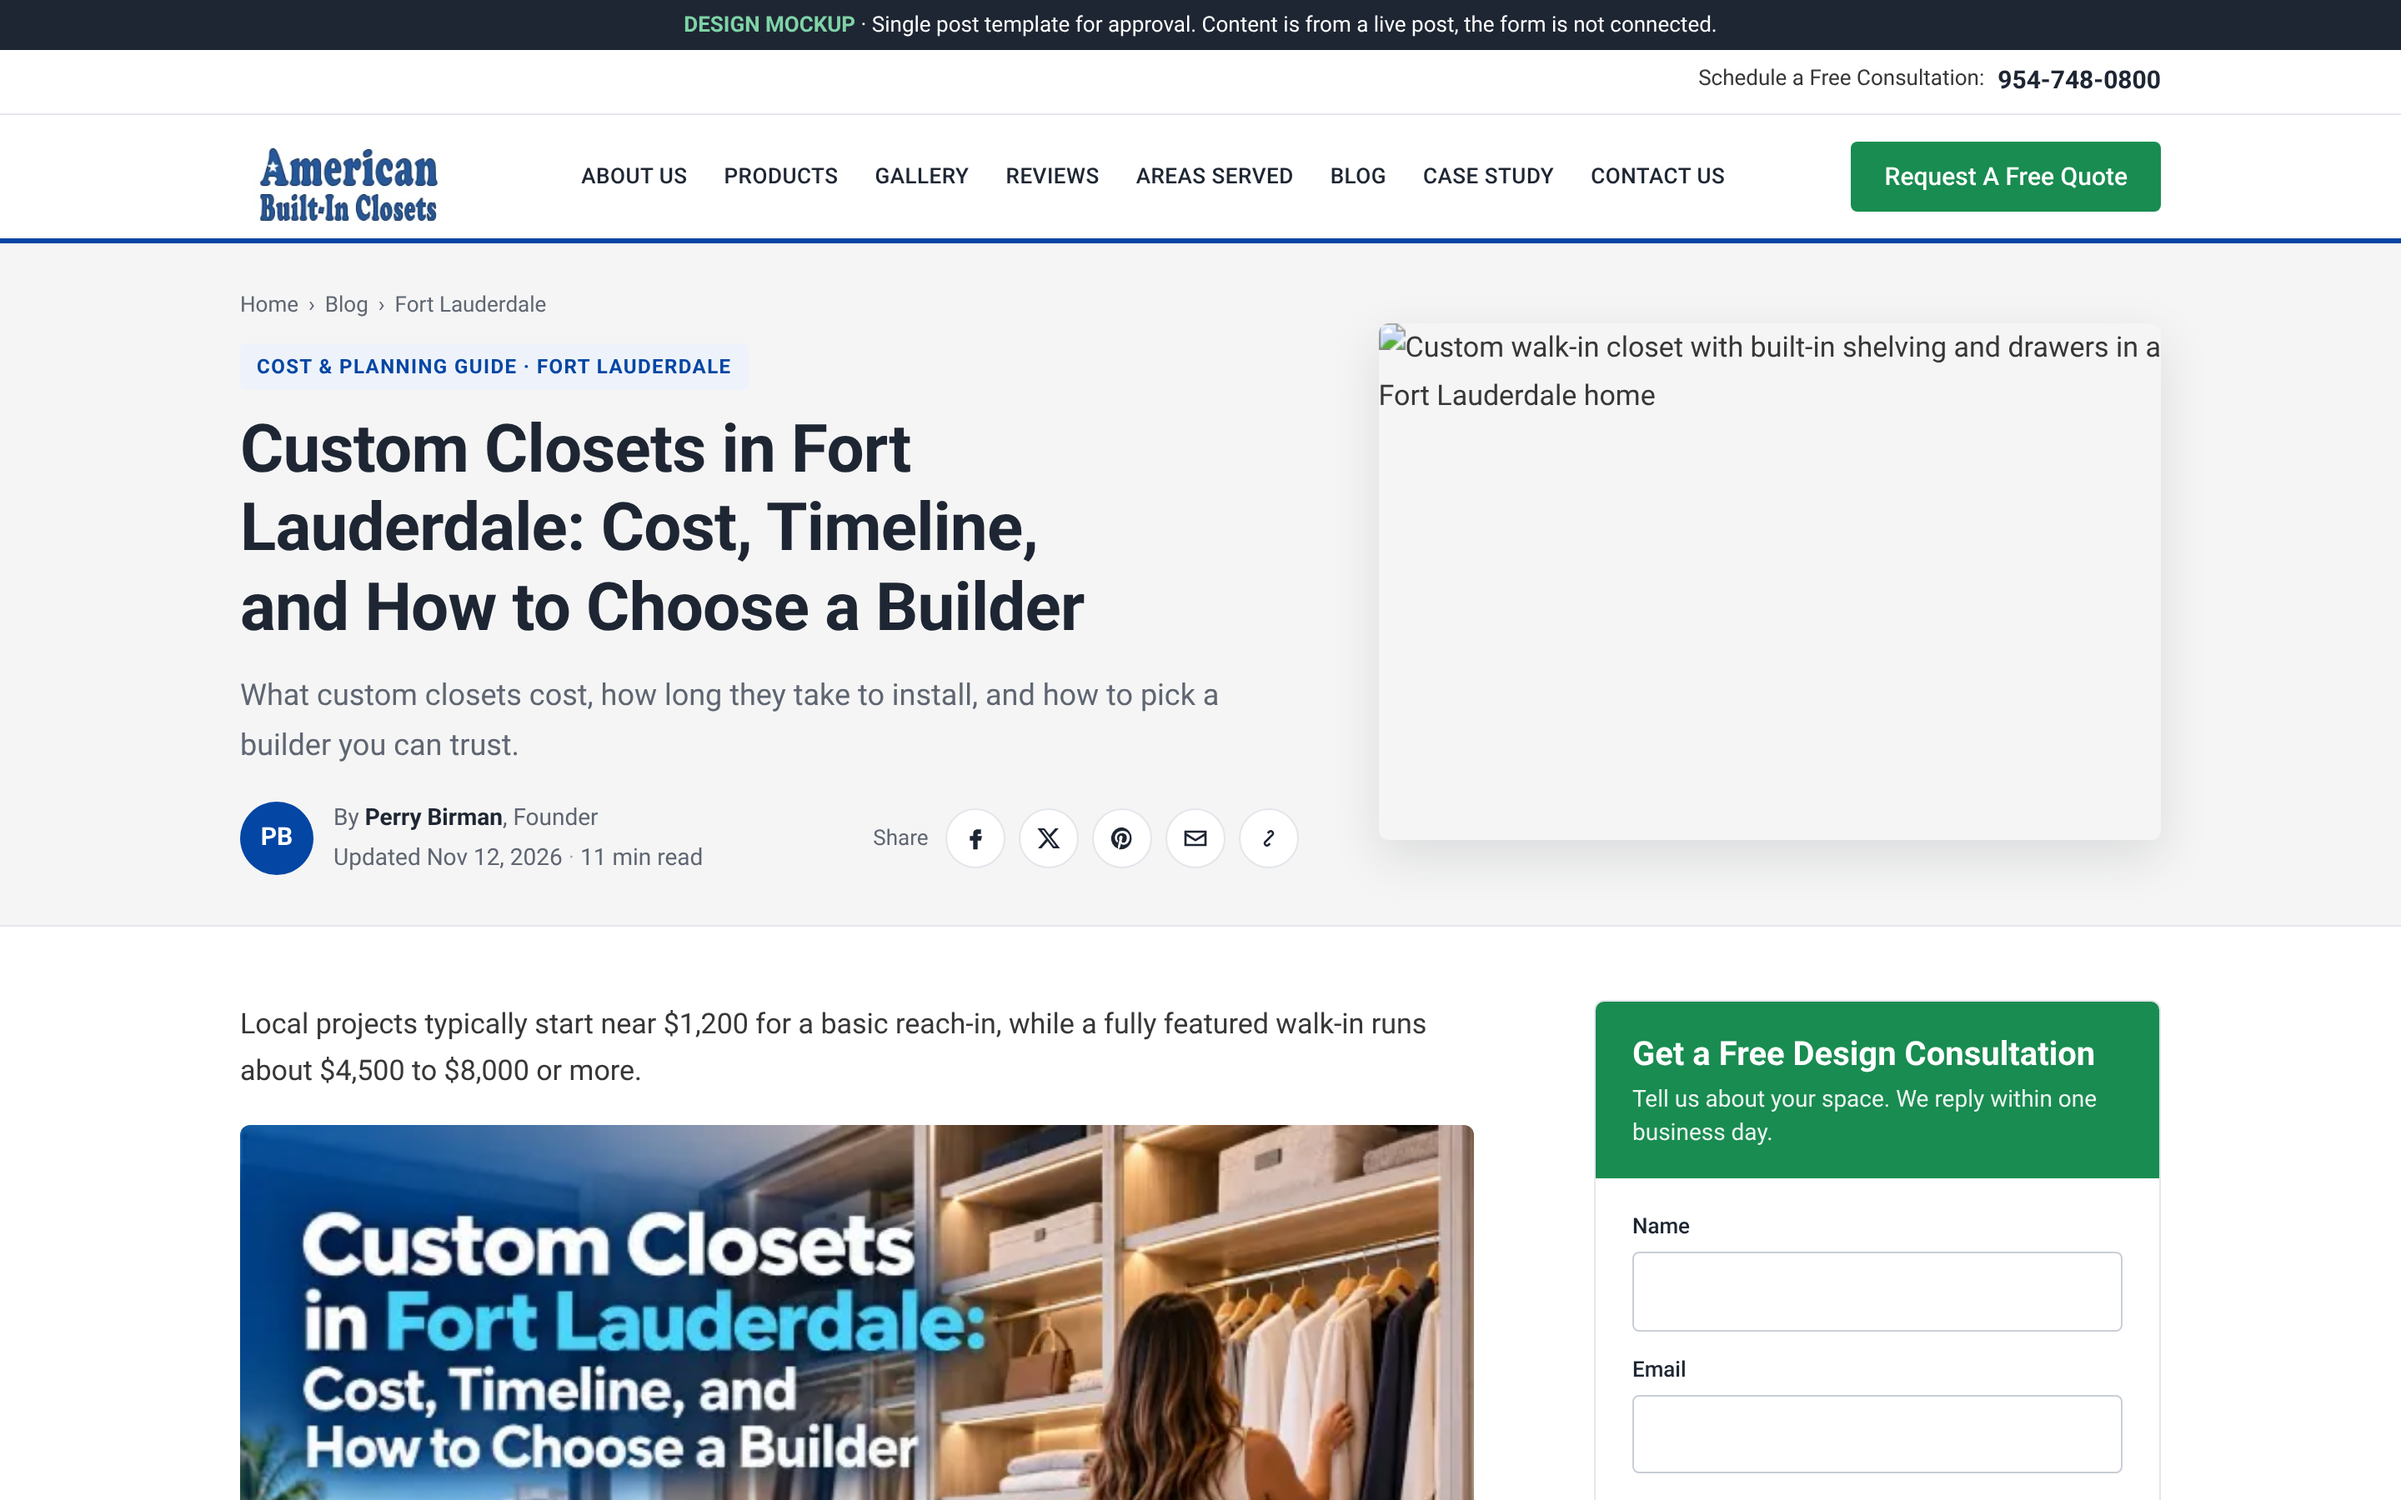
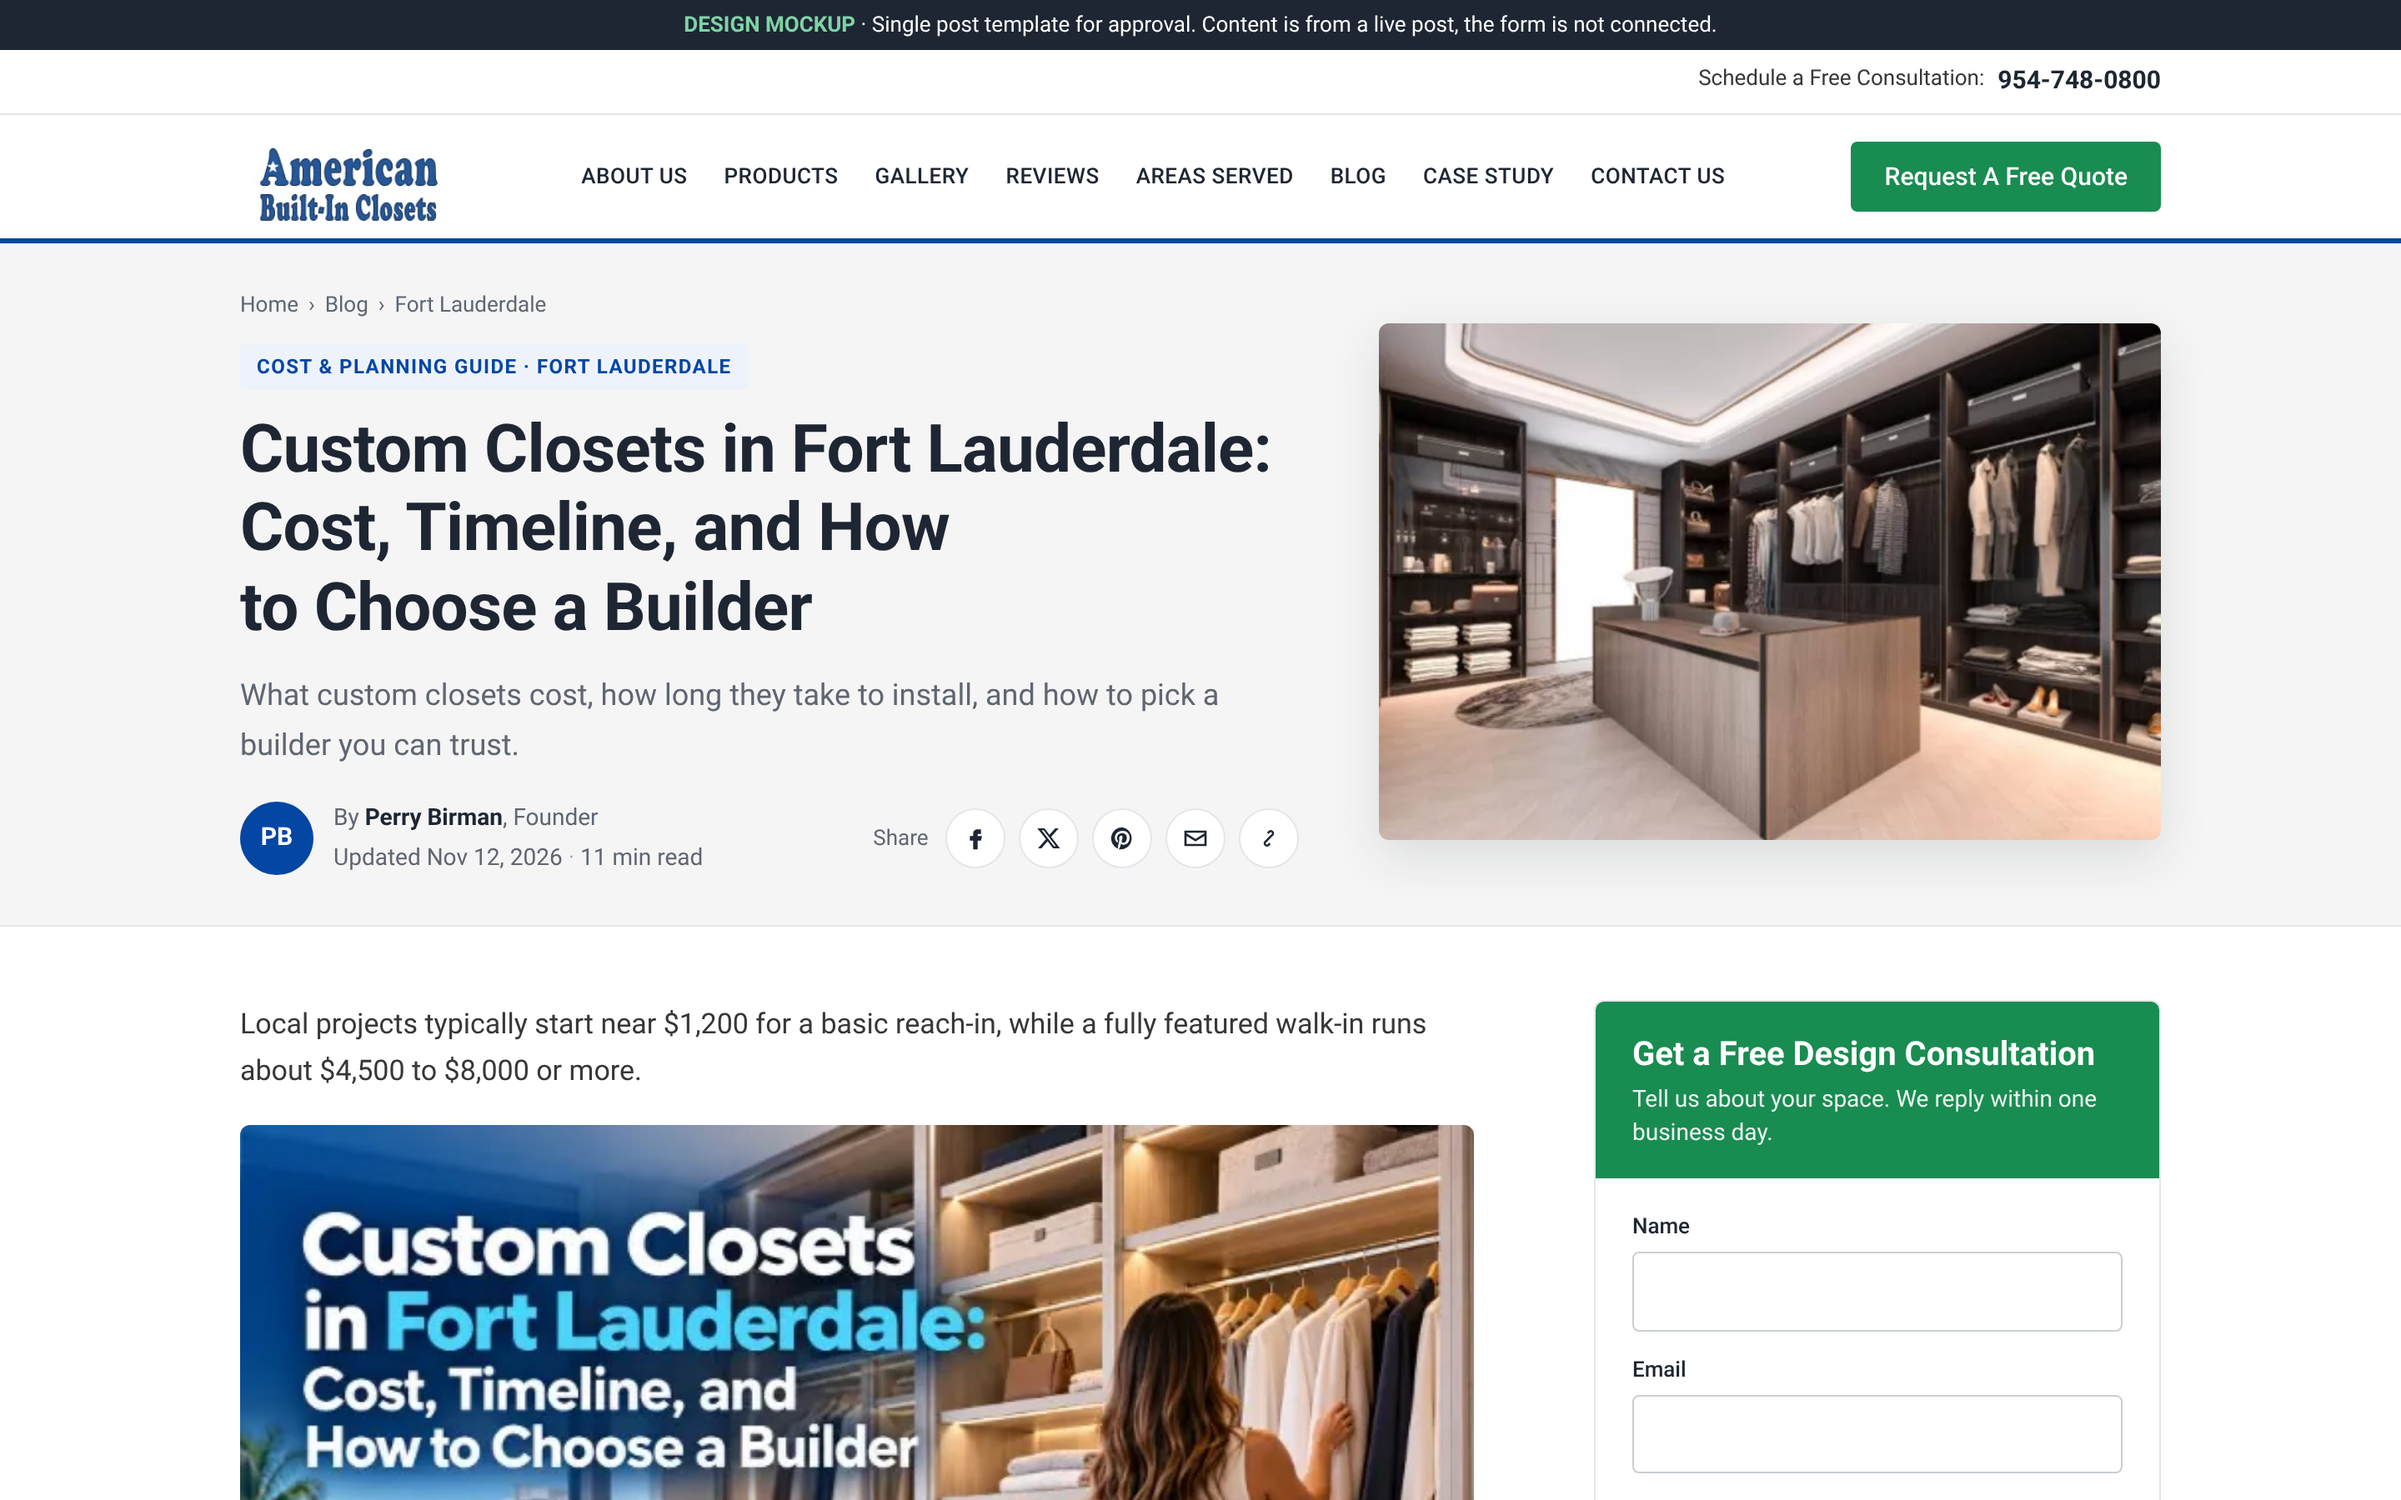
Break single post titles after the colon
Titles with a colon now put the part after it on its own line, so no
single word is left on the colon line. Adds a WordPress helper
(function + [abc_post_title] shortcode) that wraps the two parts
automatically and keeps the last two words together.

Claude-Session: https://claude.ai/code/session_01EBgQvJjERmq5Bnq5eGdiC9

Changed region(s): [[0.5625, 0.2178, 0.9062, 0.56], [0.0938, 0.28, 0.5312, 0.4356]]

diff --git a/mockups/single-post-layout.html b/mockups/single-post-layout.html
@@ -52,6 +52,9 @@
   .crumbs span{margin:0 6px}
   .chip{display:inline-block;background:var(--tint);color:var(--navy);font-size:12px;font-weight:700;letter-spacing:.06em;text-transform:uppercase;padding:4px 10px;border-radius:3px;margin-bottom:12px}
   h1{font-size:40px;line-height:1.18;color:var(--heading);margin:0 0 14px;font-weight:700;text-wrap:balance;letter-spacing:-.01em}
+  /* Titles with a colon: always break after the colon so no single word is left on that line.
+     WordPress adds these spans automatically (see title-colon-break.php). */
+  h1 .title-main,h1 .title-sub{display:block;text-wrap:balance}
   .dek{font-size:18px;color:var(--muted);margin:0 0 16px;max-width:60ch}
   .meta{display:flex;align-items:center;gap:12px;flex-wrap:wrap;font-size:14px;color:var(--muted)}
   .avatar{width:44px;height:44px;border-radius:50%;background:var(--navy);color:#fff;display:grid;place-items:center;font-weight:700;font-size:15px;flex:none}
@@ -251,7 +254,7 @@
       <div>
         <p class="crumbs"><a href="#">Home</a><span>›</span><a href="#">Blog</a><span>›</span>Fort Lauderdale</p>
         <span class="chip">Cost &amp; Planning Guide · Fort Lauderdale</span>
-        <h1>Custom Closets in Fort Lauderdale: Cost, Timeline, and How to Choose a Builder</h1>
+        <h1><span class="title-main">Custom Closets in Fort Lauderdale:</span> <span class="title-sub">Cost, Timeline, and How to Choose a&nbsp;Builder</span></h1>
         <p class="dek">What custom closets cost, how long they take to install, and how to pick a builder you can trust.</p>
         <div class="byline-row">
         <div class="meta">

diff --git a/mockups/title-colon-break.php b/mockups/title-colon-break.php
@@ -1,0 +1,53 @@
+<?php
+/**
+ * Single post title: always break the line after a colon.
+ *
+ * "Custom Closets in Fort Lauderdale: Cost, Timeline, and How to Choose a Builder"
+ * renders as
+ *   <span class="title-main">Custom Closets in Fort Lauderdale:</span>
+ *   <span class="title-sub">Cost, Timeline, and How to Choose a&nbsp;Builder</span>
+ *
+ * Both spans are display:block (see CSS below), so a word can never be left
+ * alone on the same line after the colon. The last two words are joined with a
+ * non-breaking space so the title never ends with a single word on its own line.
+ * Titles without a colon only get the non-breaking space.
+ *
+ * Add to the child theme's functions.php (or a code snippets plugin).
+ */
+
+if ( ! function_exists( 'abc_format_post_title' ) ) {
+	function abc_format_post_title( $title ) {
+		$title = trim( (string) $title );
+
+		// Join the last two words so the final line is never a single word.
+		$keep_last_two = static function ( $text ) {
+			return preg_replace( '/\s+(\S+)$/u', '&nbsp;$1', $text );
+		};
+
+		// Split only on a colon followed by a space, so times like "10:30" are left alone.
+		if ( preg_match( '/^(.+?:)\s+(.+)$/u', $title, $m ) ) {
+			return '<span class="title-main">' . esc_html( $m[1] ) . '</span> '
+				. '<span class="title-sub">' . $keep_last_two( esc_html( $m[2] ) ) . '</span>';
+		}
+
+		return $keep_last_two( esc_html( $title ) );
+	}
+}
+
+/**
+ * Option A, custom theme template (single.php):
+ *   <h1 class="entry-title"><?php echo abc_format_post_title( get_the_title() ); ?></h1>
+ *
+ * Option B, Elementor Theme Builder: use a Shortcode widget with an H1 wrapper,
+ * or an HTML widget, containing [abc_post_title].
+ */
+add_shortcode( 'abc_post_title', static function () {
+	return '<h1 class="entry-title">' . abc_format_post_title( get_the_title() ) . '</h1>';
+} );
+
+/*
+CSS to add with the template styles:
+
+.single-post h1 .title-main,
+.single-post h1 .title-sub { display: block; text-wrap: balance; }
+*/
